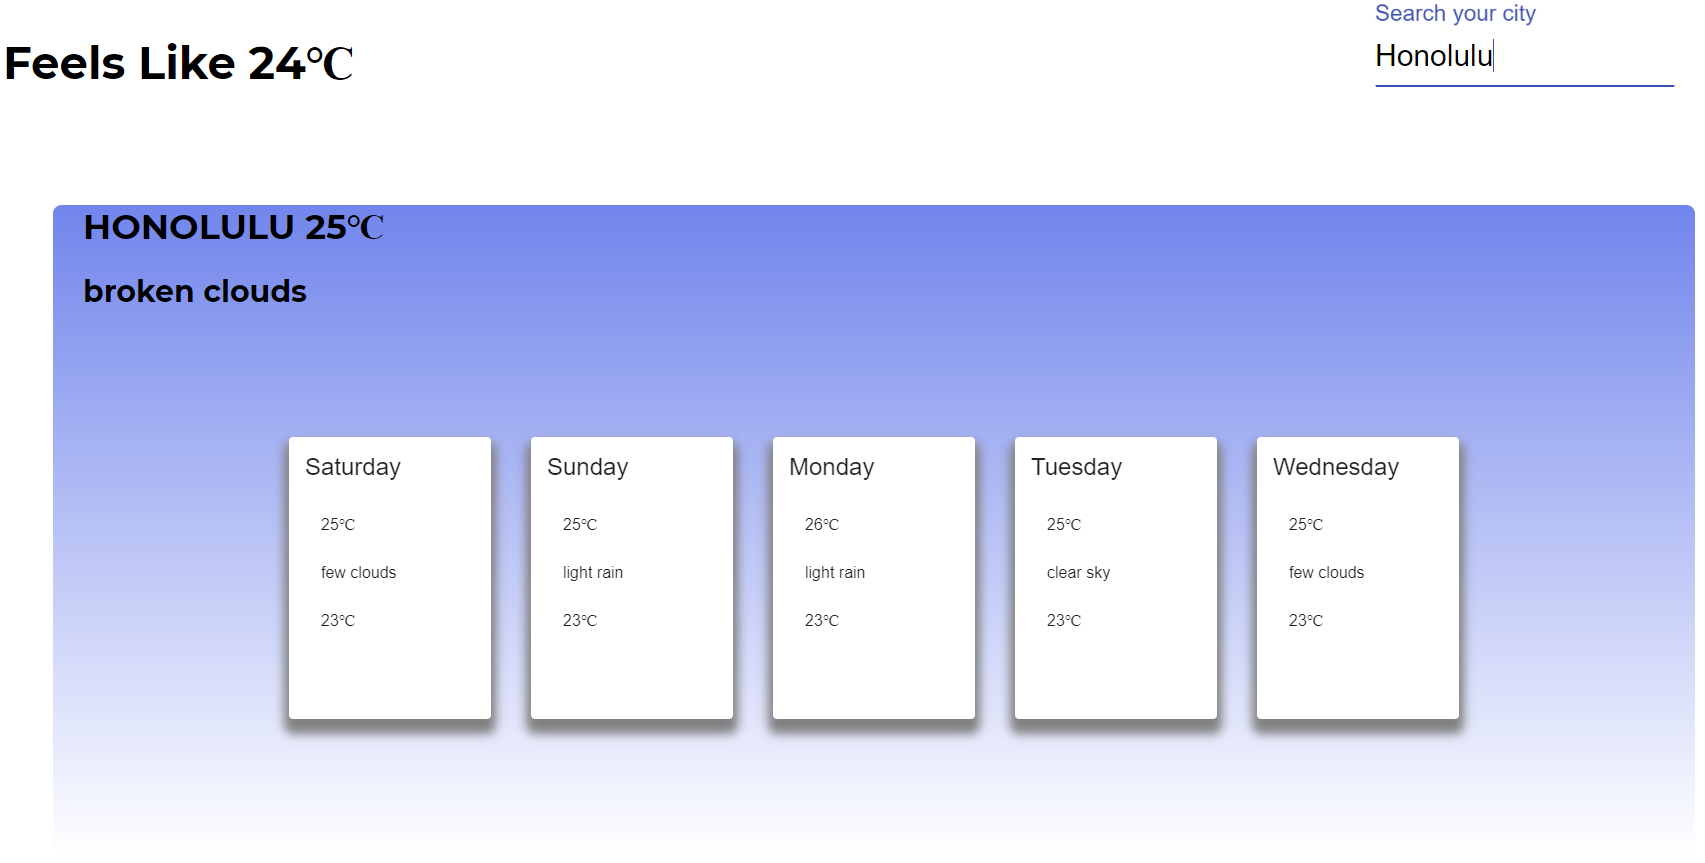
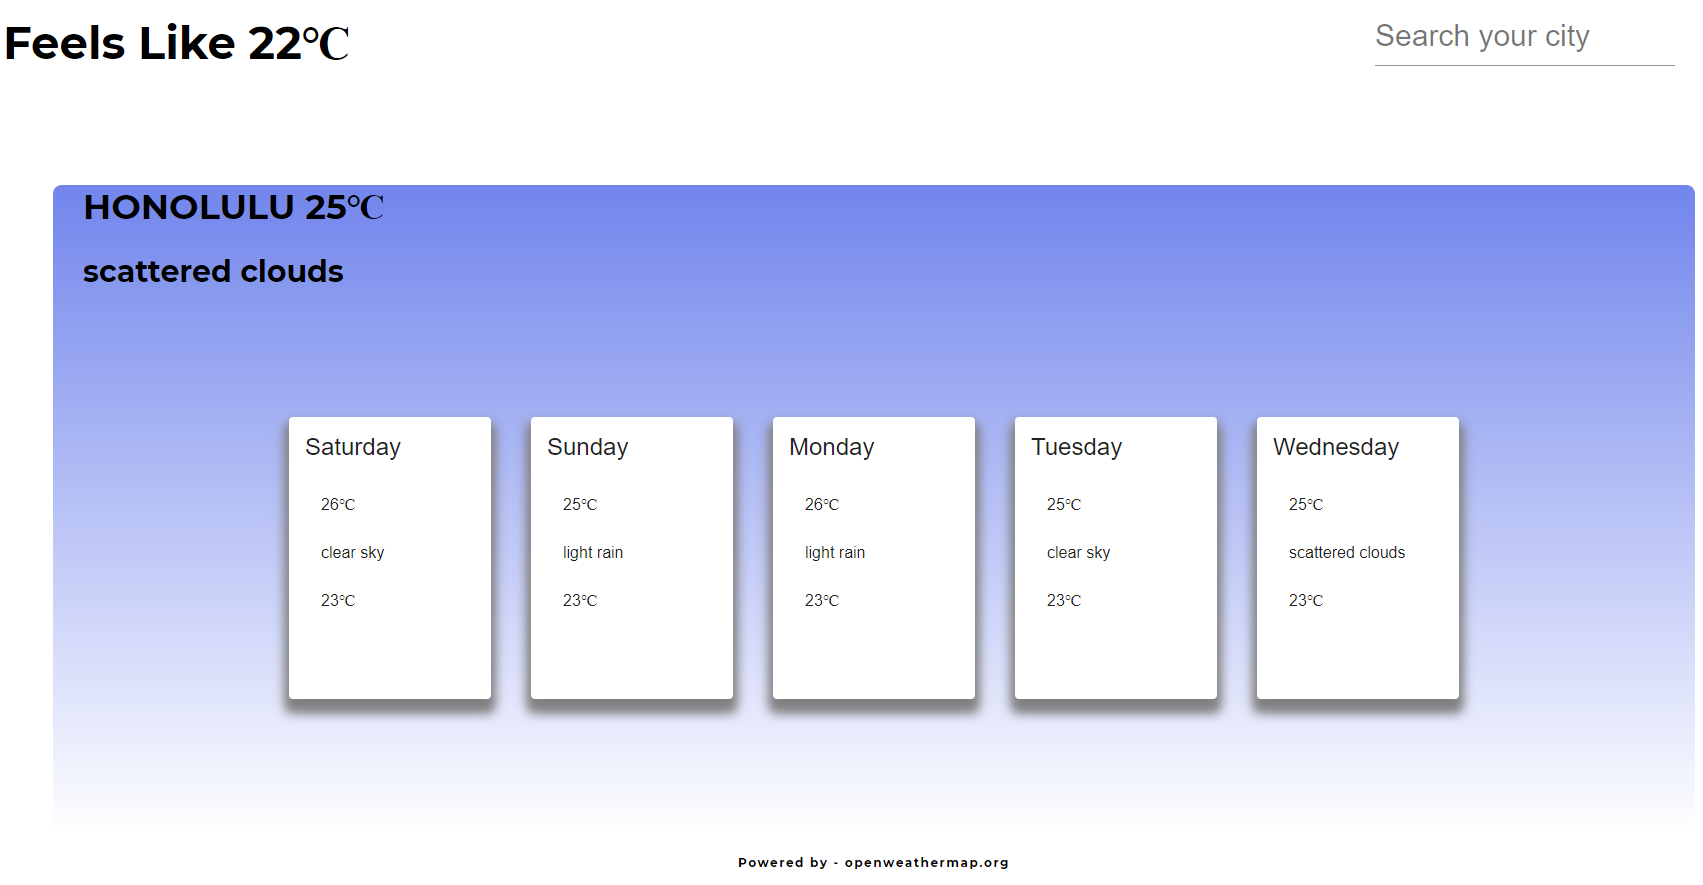
added remarks for the open source api

diff --git a/src/app/app.module.ts b/src/app/app.module.ts
@@ -2,7 +2,7 @@ import { BrowserModule } from '@angular/platform-browser';
 import { CommonModule } from '@angular/common';
 import { NgModule } from '@angular/core';
 import {MatInputModule} from '@angular/material/input';
-import {MatFormFieldModule,MatSelectModule} from '@angular/material';
+import {MatFormFieldModule,MatSelectModule, MatToolbarModule} from '@angular/material';
 import { AppComponent } from './app.component';
 import {FormsModule, ReactiveFormsModule} from '@angular/forms';
 import { HttpClientModule, HttpClientJsonpModule } from '@angular/common/http';
@@ -31,7 +31,8 @@ import { CookieService } from 'ngx-cookie-service';
     BrowserAnimationsModule,
     ReactiveFormsModule,
     CommonModule,
-    MaterialModule
+    MaterialModule,
+    MatToolbarModule
     
   ],
   providers: [

diff --git a/src/app/app.component.ts b/src/app/app.component.ts
@@ -85,6 +85,8 @@ export class AppComponent {
           this.cookieValue = this.cookieService.get('Test');
           this.saved = this.cookieService.get('Test');
           console.log("current searched city is " + this.cookieValue);
+
+          this.show = true;
       });
   }
 

diff --git a/src/styles.scss b/src/styles.scss
@@ -121,3 +121,15 @@ h1{
         }
     }
 }
+
+
+.footer{
+    font-family: Montserrat, sans-serif;
+    display: flex;
+    justify-content: center;
+
+    h5{
+        font-size: 12px;
+    }
+}
+

diff --git a/src/app/app.component.html b/src/app/app.component.html
@@ -140,4 +140,10 @@
       
     
   </mat-grid-list>-->
+  
+    
+</div>
+
+<div class="footer">
+  <h5>Powered by - openweathermap.org</h5>
 </div>
